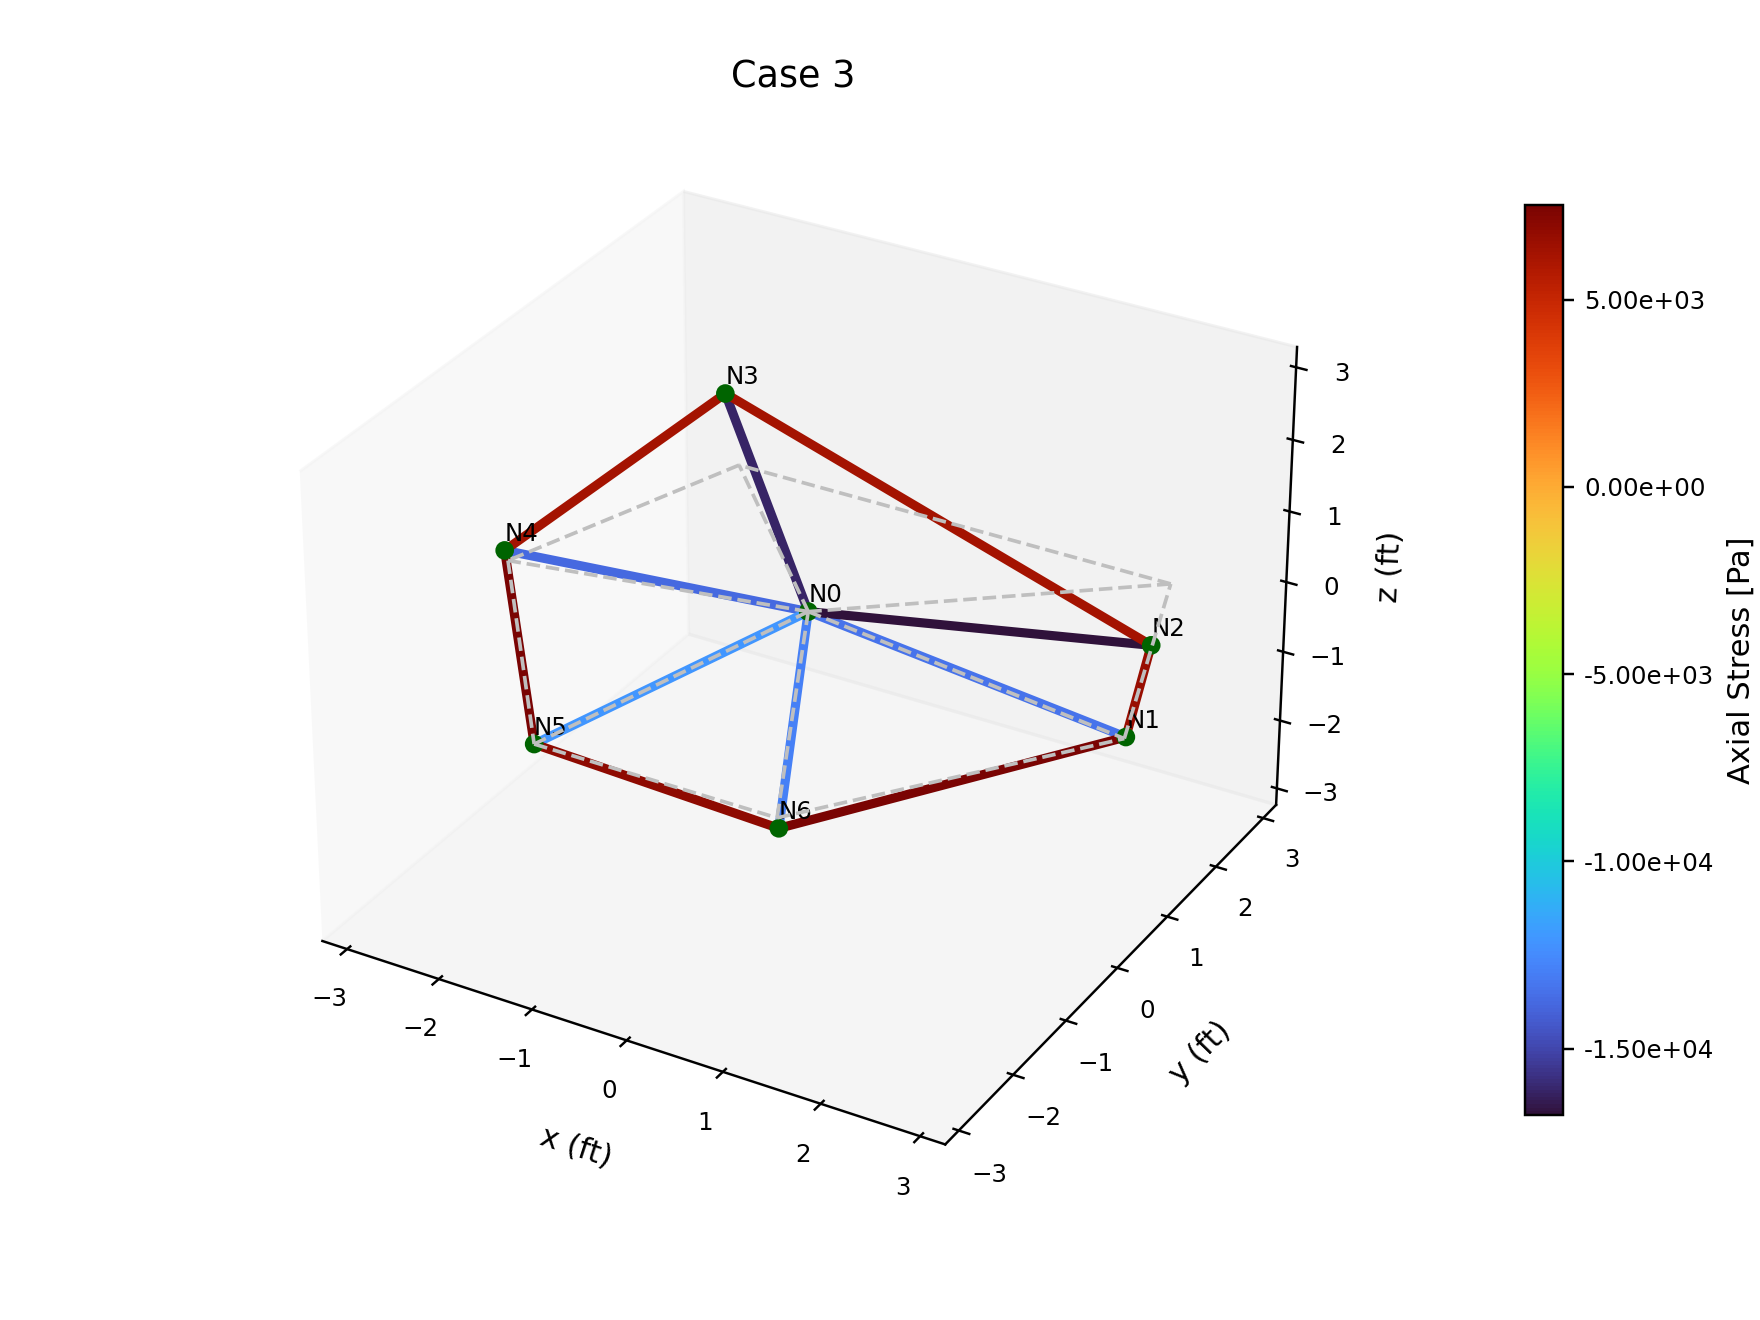
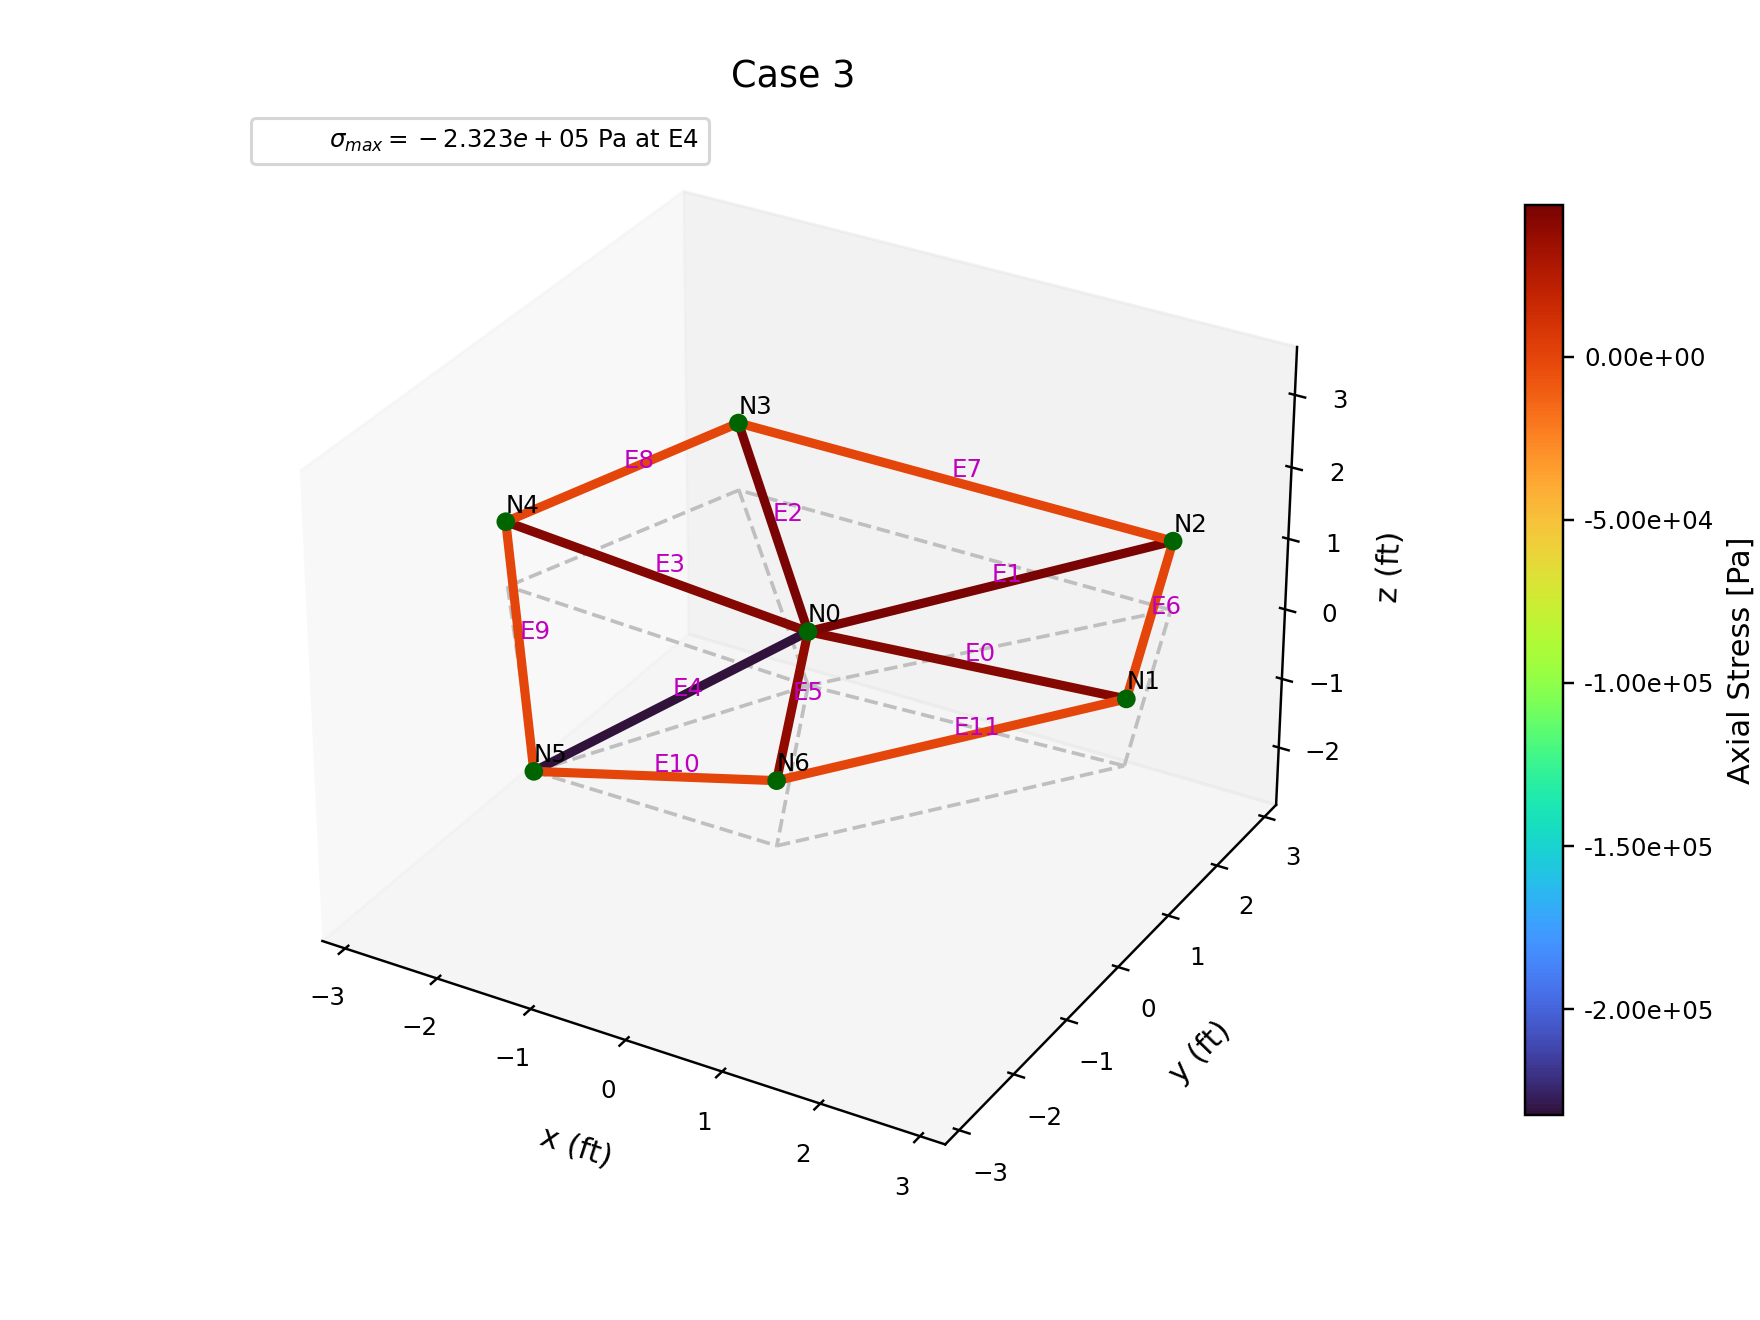
Fixed all loading cases to not be underdefined. All cases working, additional postprocessing plotting capability added (element number labels, maximum stress, boundary conditions...

diff --git a/problem1.py b/problem1.py
@@ -1,26 +1,35 @@
+import numpy as np
 import matplotlib.pyplot as plt
 from pathlib import Path
-
 from hex_geometry import E_al, hex_geometry, truss_areas
 from truss3d_solver import DirectFEM3D, fix_node_all_dofs, fix_node_dofs
 from postproc_truss3d import (
     summarize_case,
     deformation_scale,
     write_case_outputs,
+    plot_hex_2D,
     plot_truss_with_bcs_loads_3d,
     plot_deformed_stress_truss_3d,
 )
 
 # Nonplanar geometry is required for truss z-load response.
-# Here: center hub elevated by 6 in relative to rim nodes.
-V, E2N = hex_geometry(hub_z=0.5, rim_z=0.0)
+# center hub dropped by 2 in relative to rim nodes.
+hub_z_shift = - 2 / 12 
+V, E2N = hex_geometry(hub_z=hub_z_shift, rim_z=0.0)
 A = truss_areas(E2N)
 E = E_al
 out_dir = Path(__file__).resolve().parent / "figures"
 out_dir.mkdir(parents=True, exist_ok=True)
+plot_hex_2D(V, E2N, out_path=out_dir / "hex_2D.svg", show=False)
 
 # Case dictionaries in a sample_case.py-like structure:
 # mesh/properties/loads/bcs can be swapped cleanly per scenario.
+
+# Case 1 assumptions (mid-flight package load):
+# - Physical intent: payload acts downward at the hub while perimeter nodes are treated as rigidly supported.
+# - Load model: point load at node 0 in -z.
+# - BC rationale: nodes 1..6 fully fixed (ux=uy=uz=0) to represent a conservative, stiff support condition
+#   and isolate local spoke response around the hub.
 case1 = {
     "name": "Case 1: Mid-flight package load",
     "mesh": {"V": V, "E2N": E2N},
@@ -36,18 +45,36 @@ case1 = {
     ),
 }
 
+# Case 2 assumptions (child pull while adult holds opposite side):
+# - Physical intent: pulling node 1 in +x while node 4 is held fixed.
+# - Load model: point load +225 lbf in +x at node 1.
+# - BC rationale:
+#   1) node 4 fully fixed = holding point,
+#   2) node 1: uy=uz=0 to keep applied pull directional in +x,
+#   3) node 0: uy=0 to suppress residual rigid-body in-plane mode and keep a stable solve.
 case2 = {
     "name": "Case 2: Child pull at node 1, adult hold at node 4",
     "mesh": {"V": V, "E2N": E2N},
     "properties": {"E": E, "A": A},
-    "loads": [{"type": "point", "node": 1, "value": [15.0, 0.0, 0.0]}],
+    "loads": [{"type": "point", "node": 1, "value": [225.0, 0.0, 0.0]}],
     "bcs": (
         fix_node_all_dofs(4)
-        + fix_node_dofs(0, ["uy", "uz"])
-        + fix_node_dofs(1, ["uz"])
+        + fix_node_dofs(1, ["uy", "uz"])
+        + fix_node_dofs(0, ["uy"])
+        + fix_node_dofs(2, ["uz"])
+        + fix_node_dofs(3, ["uz"])
+        + fix_node_dofs(5, ["uz"])
+        + fix_node_dofs(6, ["uz"])
     ),
 }
 
+# Case 3 assumptions (vehicle snagged at node 5, thrusting upward):
+# - Physical intent: node 5 is tangled/anchored, remaining nodes supply upward thrust.
+# - Load model: +15 lbf in +z at nodes 0,1,2,3,4,6.
+# - BC rationale:
+#   1) node 5 fully fixed = snag/contact point,
+#   2) nodes 0,1,2,3,4,6 have ux=uy=0 so motion is restricted to vertical response (z-direction thrust model),
+#      representing an idealized "no in-plane drift" assumption while attempting lift-off.
 case3_load_nodes = [0, 1, 2, 3, 4, 6]
 case3 = {
     "name": "Case 3: Tangled drone, distributed thrust",
@@ -56,15 +83,19 @@ case3 = {
     "loads": [{"type": "point", "node": n, "value": [0.0, 0.0, 15.0]} for n in case3_load_nodes],
     "bcs": (
         fix_node_all_dofs(5)
-        + fix_node_dofs(0, ["uy", "uz"])
-        + fix_node_dofs(1, ["uz"])
+        + fix_node_dofs(0, ["ux", "uy"])
+        + fix_node_dofs(1, ["ux", "uy"])
+        + fix_node_dofs(2, ["ux", "uy"])
+        + fix_node_dofs(3, ["ux", "uy"])
+        + fix_node_dofs(4, ["ux", "uy"])
+        + fix_node_dofs(6, ["ux", "uy"])
     ),
 }
 
 cases = [case1, case2, case3]
 case_tags = ["case1", "case2", "case3"]
 case_titles = ["Case 1", "Case 2", "Case 3"]
-print("Using nonplanar 3D hex geometry: hub z = +0.5 ft, rim z = 0 ft.")
+print(f"Using nonplanar 3D hex geometry: hub z = {hub_z_shift:.4f} ft, rim z = 0 ft.")
 
 for i, case in enumerate(cases):
     try:

diff --git a/postproc_truss3d.py b/postproc_truss3d.py
@@ -2,6 +2,7 @@ import numpy as np
 import matplotlib.pyplot as plt
 from mpl_toolkits.mplot3d.art3d import Line3DCollection
 from matplotlib.ticker import FormatStrFormatter
+from matplotlib.lines import Line2D
 
 
 def _set_axes_equal_3d(ax, pts):
@@ -38,6 +39,17 @@ def _load_arrow_scale(V, loads):
     mags = [np.linalg.norm(np.asarray(ld["value"], dtype=float)) for ld in loads]
     max_mag = max(float(np.max(mags)), 1.0)
     return 0.18 * span / max_mag
+
+
+def _bc_label_from_dofs(dof_set):
+    # dof_set entries are {'ux','uy','uz'} etc.
+    order = [("ux", "x"), ("uy", "y"), ("uz", "z")]
+    comps = [sym for key, sym in order if key in dof_set]
+    if len(comps) == 0:
+        return None
+    if len(comps) == 1:
+        return rf"$u_{{{comps[0]}}}=0$"
+    return rf"$u_{{{','.join(comps)}}}=0$"
 
 
 def summarize_case(name, result):
@@ -101,8 +113,9 @@ def plot_hex_2D(co, e, out_path=None, show=False):
     ax.plot(co_2d[:, 0], co_2d[:, 1], "ko", ms=5)
 
     for i, (xn, yn) in enumerate(co_2d):
+        zn = co[i, 2] if co.shape[1] > 2 else 0.0
         ax.annotate(
-            f"N{i}: ({xn:.1f}, {yn:.1f})",
+            f"N{i}: ({xn:.1f}, {yn:.1f}, {zn:.1f})",
             xy=(xn, yn),
             xytext=(6, 6),
             textcoords="offset points",
@@ -151,7 +164,29 @@ def plot_truss_with_bcs_loads_3d(V, E2N, bcs, loads, ax=None, title="Truss with 
     # Node labels (slightly offset in +z for readability)
     zoff = max(0.02 * np.max(np.ptp(V, axis=0)), 1e-3)
     for i, (x, y, z) in enumerate(V):
-        ax.text(x, y, z + zoff, f"N{i}", color="k", fontsize=8)
+        ax.text(x, y, z + zoff, f"N{i}", color="k", fontsize=8, zorder=20)
+
+    # Element labels at midpoints, slight +z offset.
+    mids = segs.mean(axis=1)
+    for k, (xm, ym, zm) in enumerate(mids):
+        ax.text(xm, ym, zm + 0.45 * zoff, f"E{k}", color="m", fontsize=8, zorder=20)
+
+    # BC labels from case setup dict, offset in -z to avoid node-label overlap.
+    bc_by_node = {}
+    for bc in bcs:
+        if bc.get("type", "dirichlet") != "dirichlet":
+            continue
+        node = int(bc["node"])
+        dof = bc.get("dof")
+        if dof is None:
+            continue
+        bc_by_node.setdefault(node, set()).add(dof)
+    for node, dof_set in bc_by_node.items():
+        label = _bc_label_from_dofs(dof_set)
+        if label is None:
+            continue
+        x, y, z = V[node]
+        ax.text(x, y, z - 3.8 * zoff, label, color="b", fontsize=8, zorder=20)
 
     p_loads = [ld for ld in loads if np.linalg.norm(np.asarray(ld["value"], dtype=float)) > 0]
     q_scale = _load_arrow_scale(V, p_loads)
@@ -213,7 +248,19 @@ def plot_deformed_stress_truss_3d(
     # Node labels at displaced node locations (offset in +z for readability)
     zoff = max(0.02 * np.max(np.ptp(V_def, axis=0)), 1e-3)
     for i, (x, y, z) in enumerate(V_def):
-        ax.text(x, y, z + zoff, f"N{i}", color="k", fontsize=8)
+        ax.text(x, y, z + zoff, f"N{i}", color="k", fontsize=8, zorder=20)
+
+    # Element labels at displaced midpoints, slight +z offset.
+    mids = segd.mean(axis=1)
+    for k, (xm, ym, zm) in enumerate(mids):
+        ax.text(xm, ym, zm + 0.45 * zoff, f"E{k}", color="m", fontsize=8, zorder=20)
+
+    # Max stress info in legend (upper-left), instead of midpoint annotation.
+    idx_max = int(np.argmax(np.abs(s)))
+    sigma_at_max_mag = float(s[idx_max])
+    legend_text = rf"$\sigma_{{max}}={sigma_at_max_mag:.3e}\ \mathrm{{Pa}}$ at E{idx_max}"
+    legend_handle = Line2D([], [], linestyle="None", label=legend_text)
+    ax.legend(handles=[legend_handle], loc="upper left", fontsize=8, frameon=True)
 
     cbar = plt.colorbar(lcd, ax=ax, pad=0.12, fraction=0.04, shrink=0.82, aspect=24)
     cbar.set_label("Axial Stress [Pa]")
